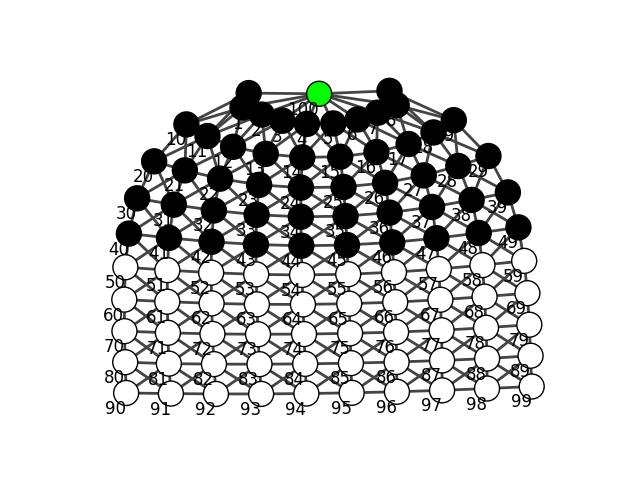
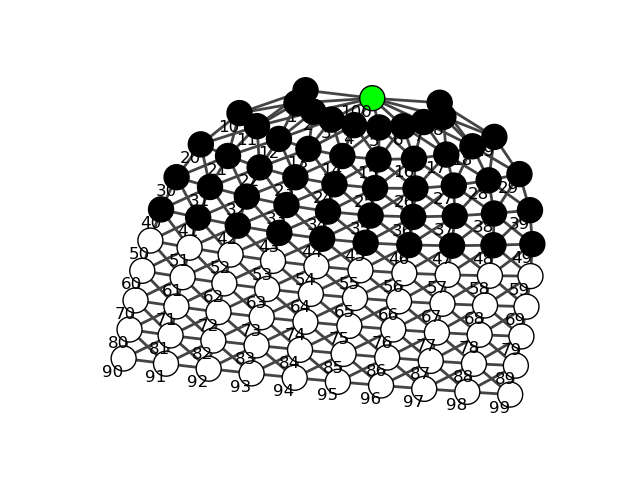
#72 - added functionality of graph filtering and shortest path

Changed region(s): [[0.1562, 0.1562, 0.875, 0.875]]

diff --git a/graph2dIgraph.py b/graph2dIgraph.py
@@ -167,12 +167,12 @@ def filterGraph(graph):
     for edge in edgeList:
         currentNode = edge[0]
         toNode = edge[1]
-        if (graph.vs[currentNode]['color'] == graph.vs[toNode]['color']):
+        if(graph.vs[currentNode]['color'] == graph.vs[toNode]['color']):
             keptEdges.append(edge)
-        elif (graph.vs[currentNode]['color'] == 'green' or graph.vs[toNode]['color'] == 'green'):
+        elif(graph.vs[currentNode]['color'] == 'green' or graph.vs[toNode]['color'] == 'green'):
             keptEdges.append(edge)
-
-    filteredGraph = graph.subgraph_edges(keptEdges, delete_vertices=False)
+    
+    filteredGraph = graph.subgraph_edges(keptEdges,delete_vertices = False)
 
     return filteredGraph
 
@@ -189,16 +189,27 @@ def shortest_path(graph):
     for c in ccp:
         for x in c:
             if graph.vs[x]['color'] == 'black' or graph.vs[x]['color'] == 'green':
-                listOfShortestPaths[x] = graph.get_shortest_paths(greenVertex, x, output="vpath")
+                listOfShortestPaths[x] = graph.get_shortest_paths(greenVertex, x, output="vpath")[0]
 
     return listOfShortestPaths
 
 
 def runIgraph(type):
     file = "./testCases/10x10.txt"
-    g = generateGraph(file)
     output = f'frontend/client/src/graph/igraph{type}.png'
-    visual2D(g, output)
+    g = generateGraph(file)
+
+    if type == "graph":
+        visual2D(g, output)
+        return 0
+    elif type == "filter":
+        fg = filterGraph(g)
+        visual2D(fg)
+        return 0
+    elif type == "bfs":
+        fg = filterGraph(g)
+        paths = shortest_path(fg)
+        return paths
 
     return 0
 
